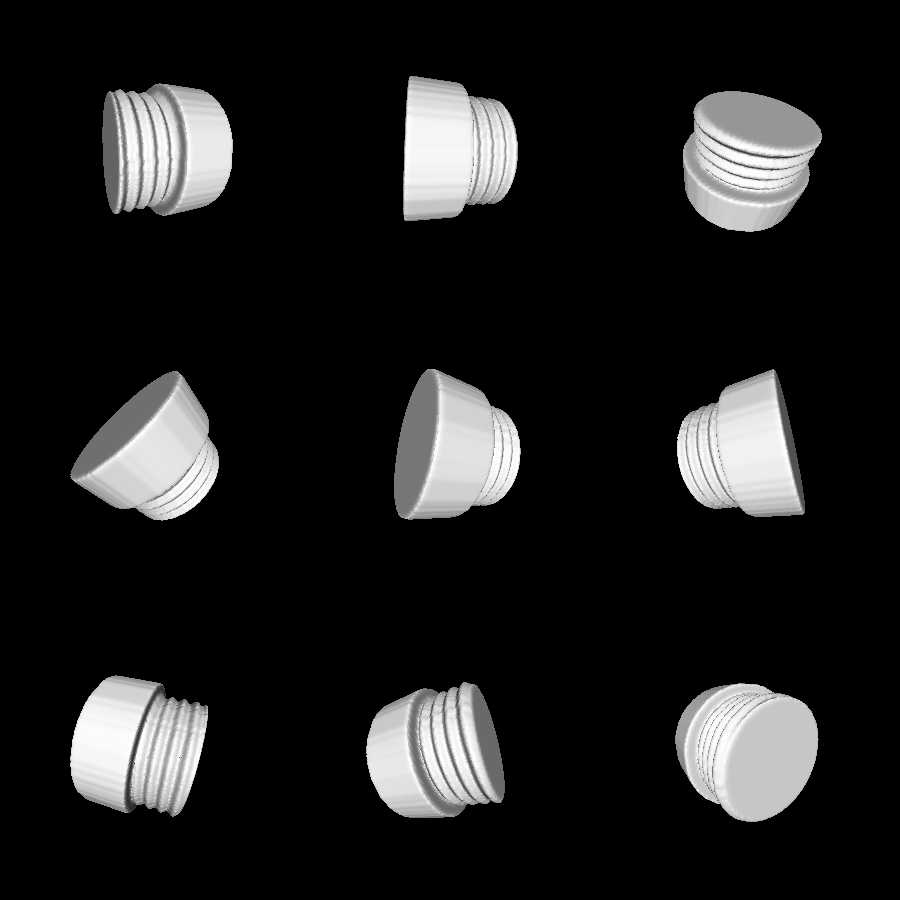
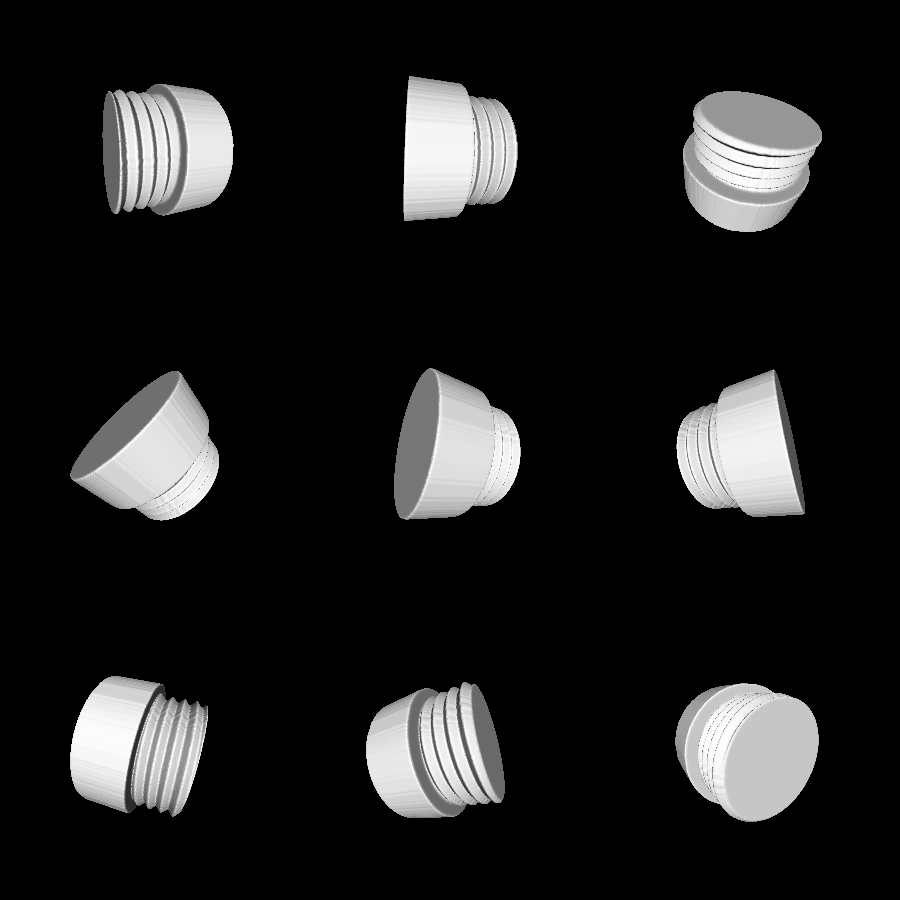
better-looking quarter holder with preview slit

diff --git a/examples/usable/quarter_case/main.go b/examples/usable/quarter_case/main.go
@@ -2,6 +2,7 @@ package main
 
 import (
 	"log"
+	"math"
 
 	"github.com/unixpickle/model3d"
 	"github.com/unixpickle/model3d/toolbox3d"
@@ -17,6 +18,10 @@ const (
 	LidScrewDiameter = 1.1
 	LidScrewSlack    = 0.03
 	LidScrewGroove   = 0.05
+
+	PreviewZ1    = 0.4
+	PreviewZ2    = 2.5
+	PreviewWidth = 0.1
 )
 
 func main() {
@@ -48,24 +53,25 @@ func main() {
 				Radius:     LidScrewDiameter / 2,
 				GrooveSize: LidScrewGroove,
 			},
+			PreviewCutout{},
 		},
 	}
 
 	smoother := &model3d.MeshSmoother{
 		StepSize:           0.1,
 		Iterations:         20,
-		ConstraintDistance: 0.01,
+		ConstraintDistance: 0.005,
 		ConstraintWeight:   0.02,
 	}
 
 	log.Println("Creating lid mesh...")
-	lidMesh := model3d.SolidToMesh(lidSolid, 0.01, 0, 0, 0)
+	lidMesh := model3d.SolidToMesh(lidSolid, 0.005, 0, 0, 0)
 	lidMesh = smoother.Smooth(lidMesh)
 	log.Println("Saving lid mesh...")
 	lidMesh.SaveGroupedSTL("qh_lid.stl")
 
 	log.Println("Creating body mesh...")
-	bodyMesh := model3d.SolidToMesh(bodySolid, 0.01, 0, 0, 0)
+	bodyMesh := model3d.SolidToMesh(bodySolid, 0.005, 0, 0, 0)
 	bodyMesh = smoother.Smooth(bodyMesh)
 	log.Println("Saving body mesh...")
 	bodyMesh.SaveGroupedSTL("qh_body.stl")
@@ -73,4 +79,22 @@ func main() {
 	log.Println("Rendering...")
 	model3d.SaveRandomGrid("rendering_lid.png", model3d.MeshToCollider(lidMesh), 3, 3, 300, 300)
 	model3d.SaveRandomGrid("rendering_body.png", model3d.MeshToCollider(bodyMesh), 3, 3, 300, 300)
+}
+
+type PreviewCutout struct{}
+
+func (p PreviewCutout) Min() model3d.Coord3D {
+	return model3d.Coord3D{X: -OuterDiameter / 2, Y: -OuterDiameter / 2, Z: PreviewZ1}
+}
+
+func (p PreviewCutout) Max() model3d.Coord3D {
+	return model3d.Coord3D{X: OuterDiameter / 2, Y: OuterDiameter / 2, Z: PreviewZ2}
+}
+
+func (p PreviewCutout) Contains(c model3d.Coord3D) bool {
+	if !model3d.InSolidBounds(p, c) {
+		return false
+	}
+	width := math.Min(PreviewWidth, math.Abs(c.Z-p.Max().Z))
+	return math.Abs(c.X) < width
 }
